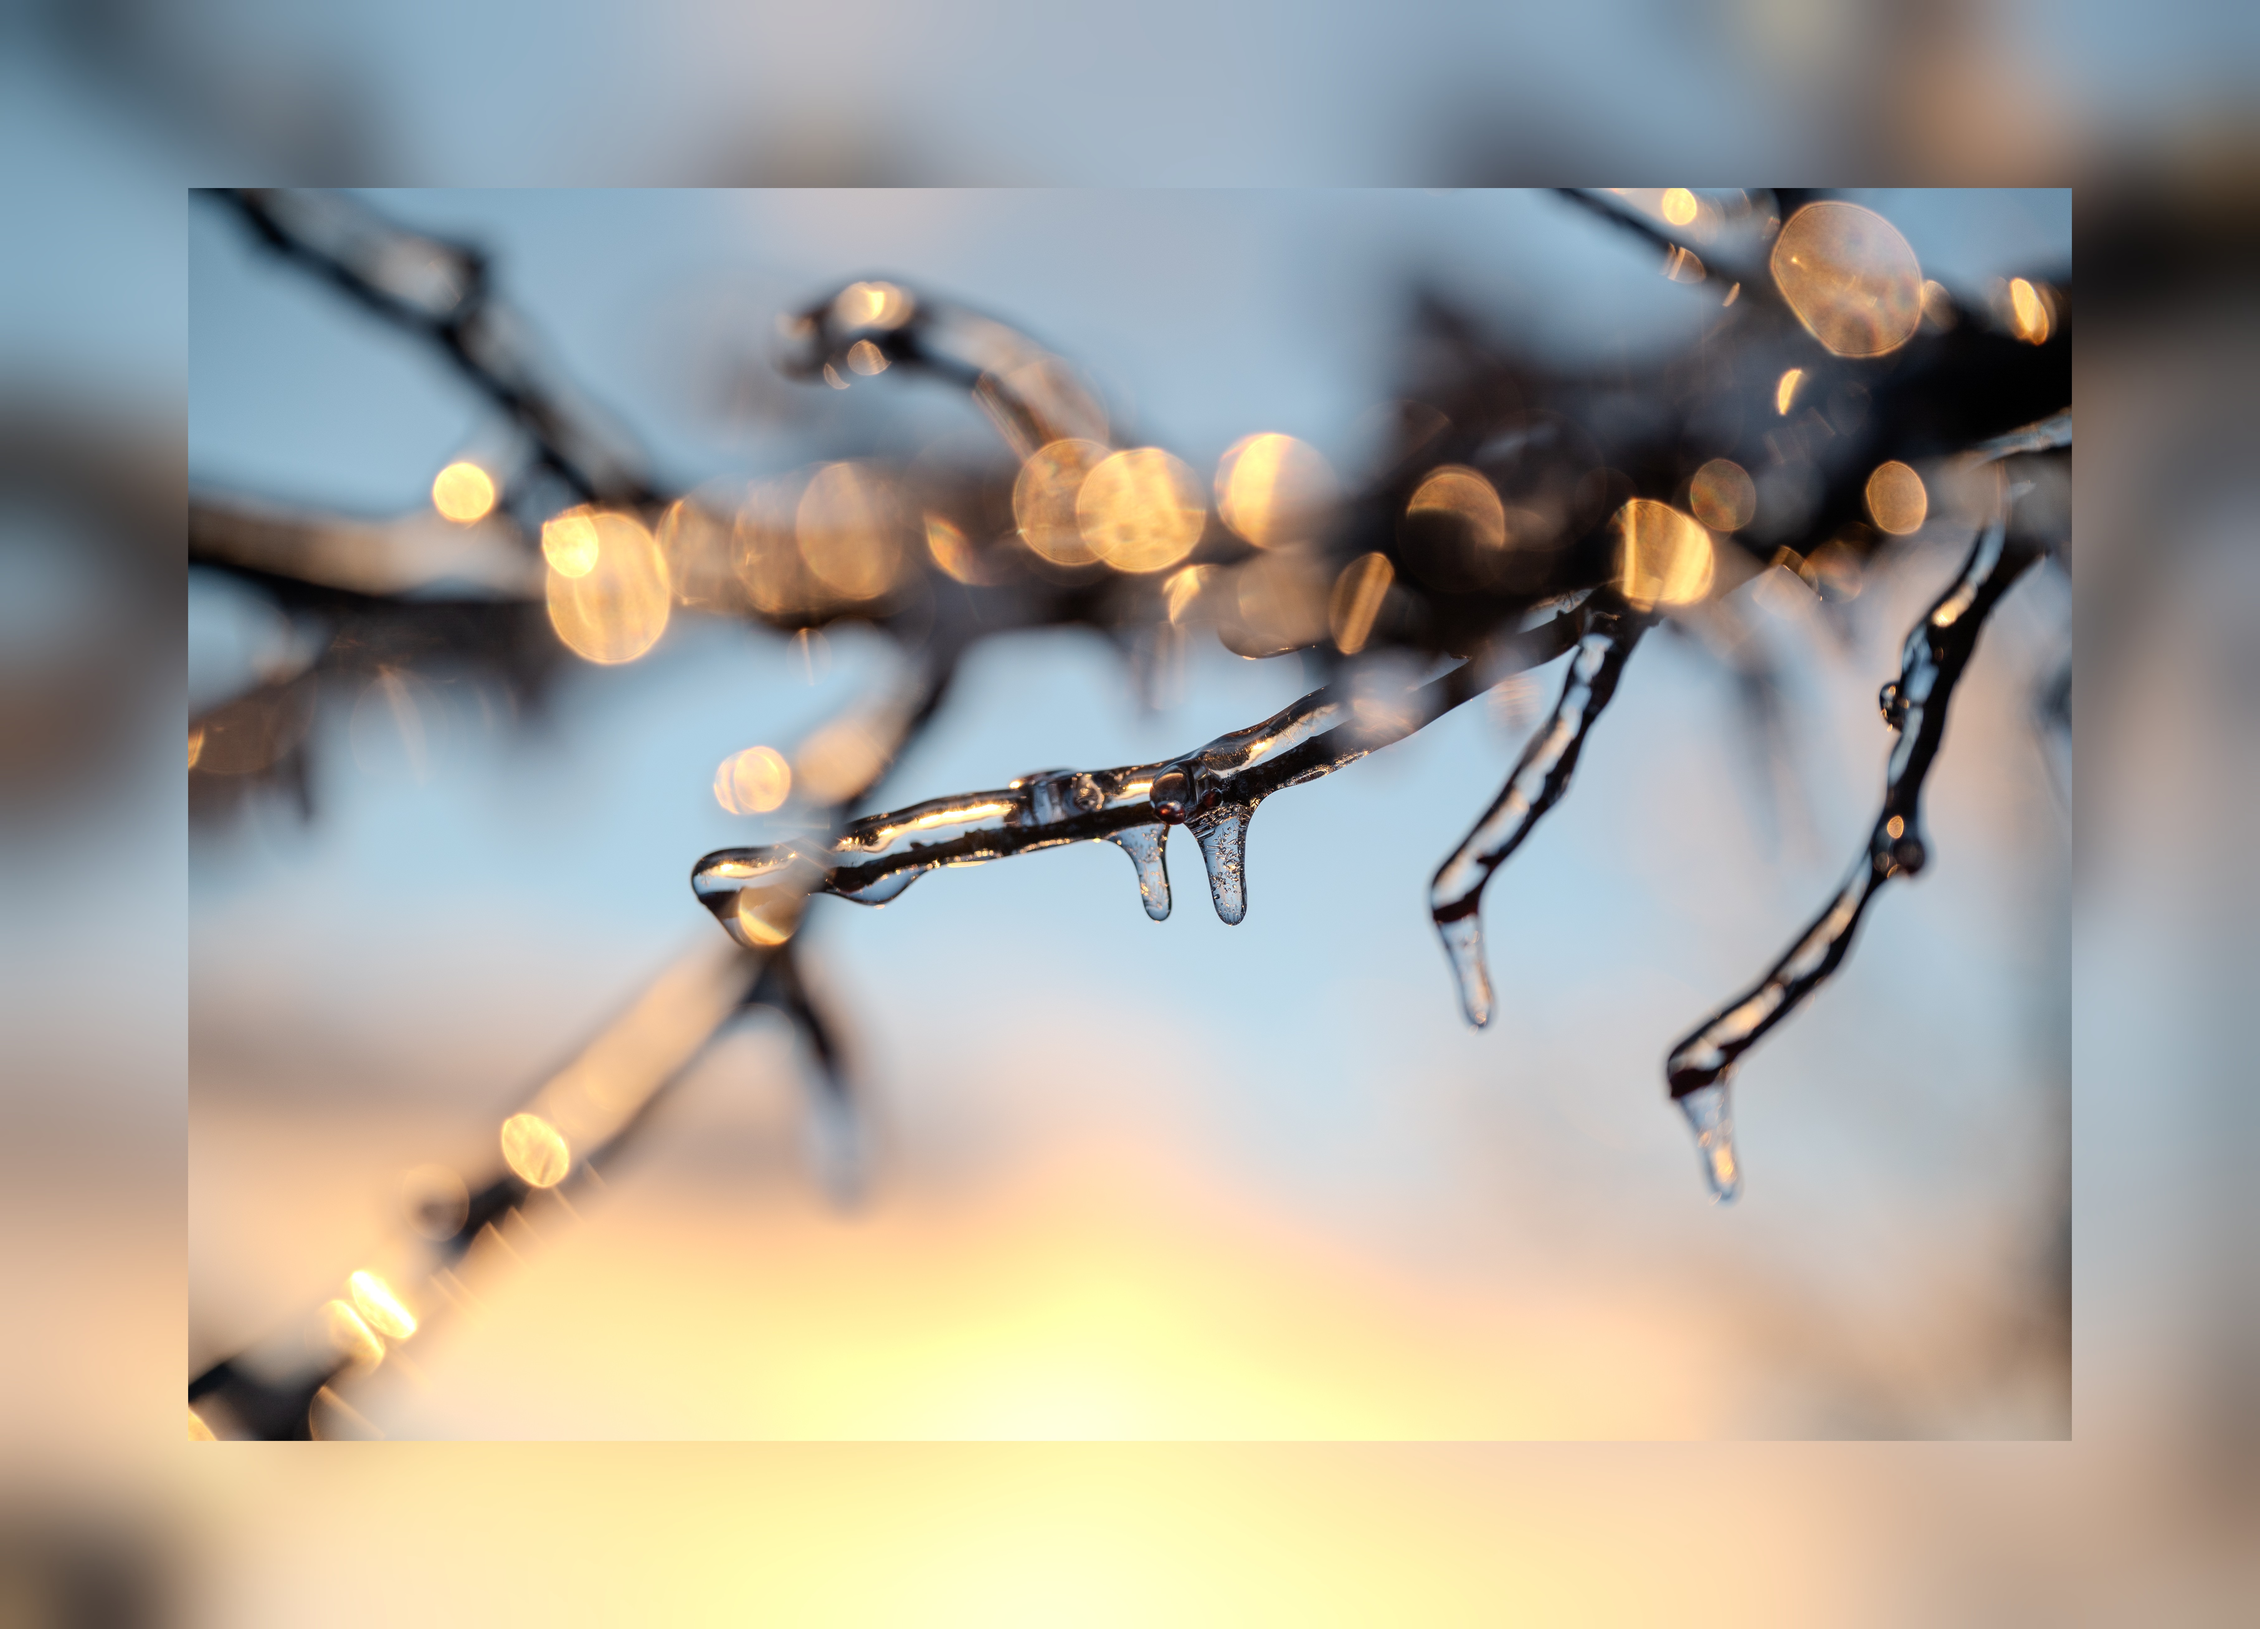
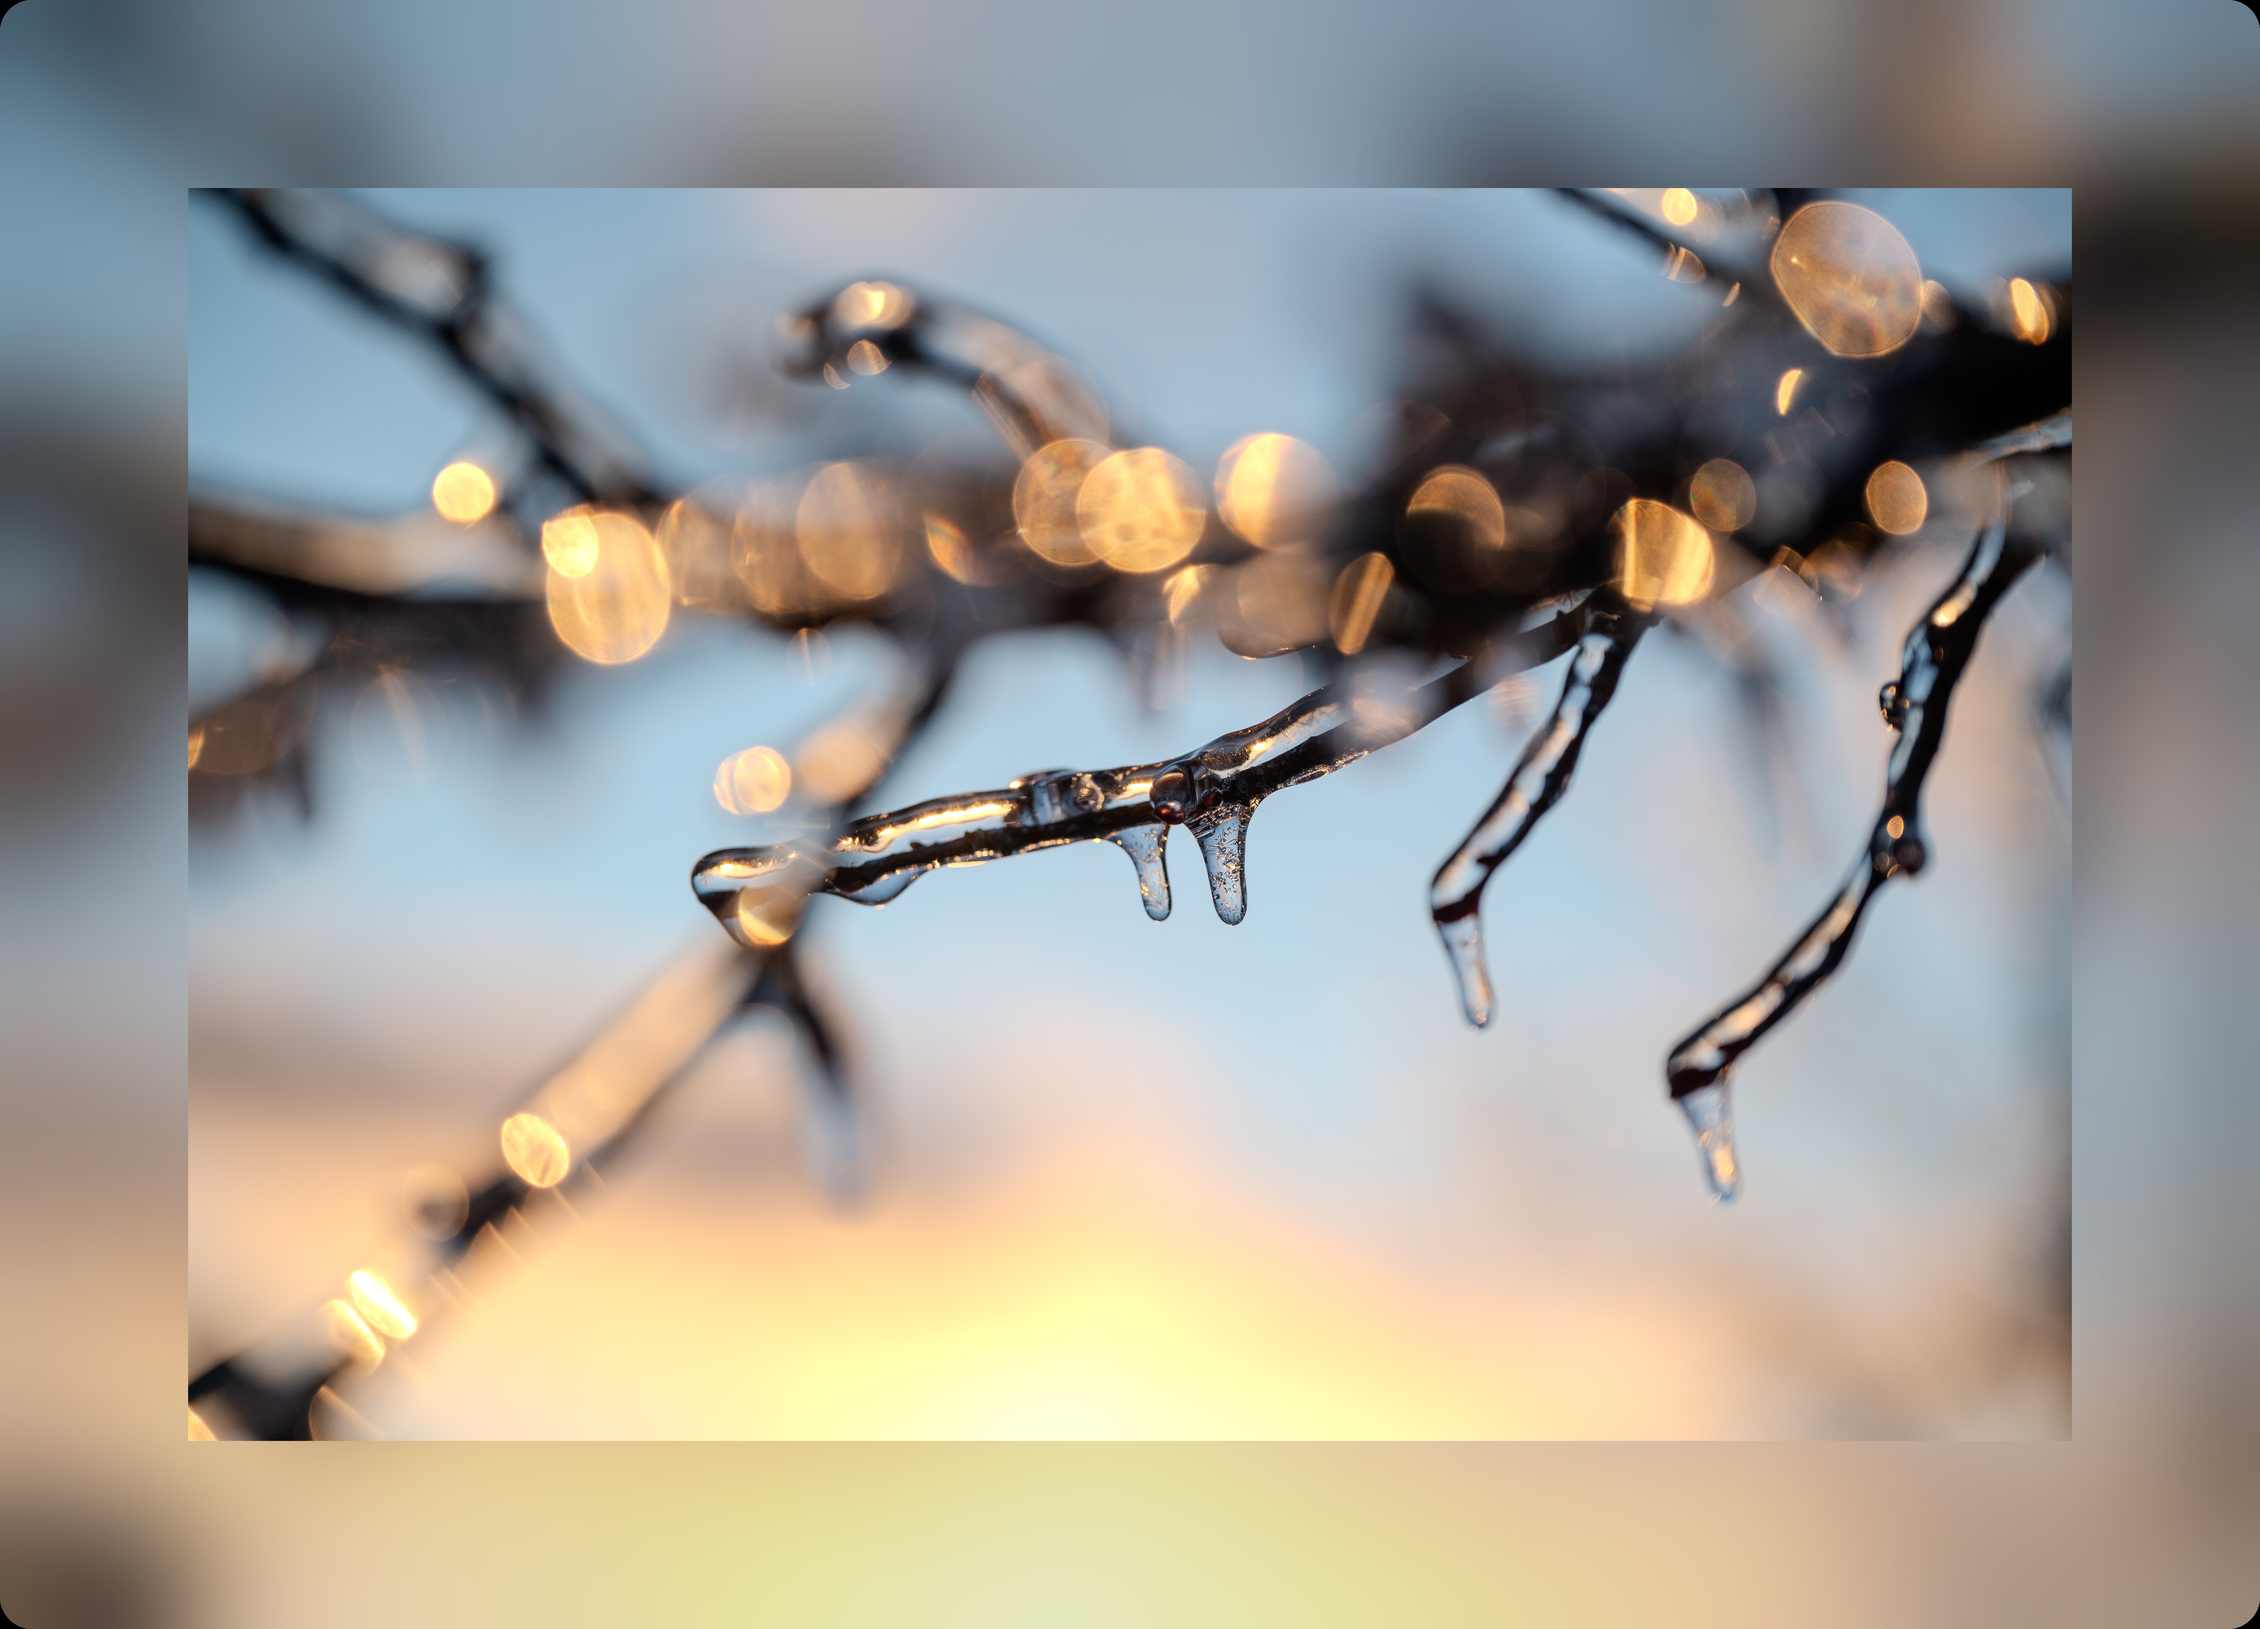
Add round corners

diff --git a/Watermark.cpp b/Watermark.cpp
@@ -10,6 +10,7 @@
     #include <qslider.h>
     #include <qcolor.h>
     #include <qcolordialog.h>
+    #include <qpainterpath.h>
 
 #include <opencv2/opencv.hpp>
 
@@ -26,6 +27,7 @@
 
         connect(ui->template1Button, &QPushButton::clicked, this, &Watermark::onTemplate1ButtonClicked);
         connect(ui->template2Button, &QPushButton::clicked, this, &Watermark::onTemplate2ButtonClicked);
+        connect(ui->template3Button, &QPushButton::clicked, this, &Watermark::onTemplate3ButtonClicked);
     }
 
     Watermark::~Watermark() {
@@ -35,10 +37,7 @@
     void Watermark::resizeEvent(QResizeEvent* event) {
         QMainWindow::resizeEvent(event);
 
-        if (!textImage.isNull()) {
-            QPixmap pix(QPixmap::fromImage(image));
-            ui->imageLabel->setPixmap(pix.scaled(ui->imageLabel->size(), Qt::KeepAspectRatio, Qt::SmoothTransformation));
-        }   
+        apply();
     }
 
     void Watermark::onChooseButtonClicked() {
@@ -48,9 +47,8 @@
         }
         editedImage = image.copy();
         textImage = image.copy();
-        QPixmap pix(QPixmap::fromImage(image));
-        ui->imageLabel->setPixmap(pix.scaled(ui->imageLabel->size(), Qt::KeepAspectRatio, Qt::SmoothTransformation));
 
+        apply();
     }
 
     void Watermark::onApplyButtonClicked() {
@@ -68,33 +66,46 @@
     }
 
     void Watermark::onTemplate1ButtonClicked() {
+        if (image.isNull()) {
+            return;
+        }
+
         QImage background = image.copy();
         background.fill(Qt::white);
-
-        editedImage.fill(Qt::white);
-        addMargin(background, 0.03, 0.03, 0.5, 0.5);
+        editedImage = addMargin(image, background, 0.03, 0.03, 0.5, 0.5).copy();
 
         apply();
     }
 
     void Watermark::onTemplate2ButtonClicked() {
-        QImage background = image.copy();
-        
-        cv::Mat mat(background.height(), background.width(), CV_8UC4, (void*)background.bits(), background.bytesPerLine());
-        cv::Mat small;
-        cv::resize(mat, small, cv::Size(), 0.10, 0.10);
-        small.convertTo(small, -1, 0.9, 0);
-        cv::GaussianBlur(small, small, cv::Size(0, 0), 15);
-        cv::resize(small, mat, mat.size());
-        background = QImage((const uchar*)mat.data, mat.cols, mat.rows, mat.step, QImage::Format_ARGB32).copy();
+        if (image.isNull()) {
+            return;
+        }
 
-        addMargin(background, 0.1, 0.1, 0.5, 0.5);
+        QImage background = blurBackground(image).copy();
+
+        editedImage = addMargin(image, background, 0.1, 0.1, 0.5, 0.5).copy();
+        editedImage = roundCorners(editedImage, 0.02).copy();
 
         apply();
     }
 
+    void Watermark::onTemplate3ButtonClicked() {
+        if (image.isNull()) {
+            return;
+        }
+
+        QImage background = blurBackground(image).copy();
+
+        editedImage = addMargin(image, background, 0.07, 0.15, 0.5, 0.4).copy();
+
+        editedImage = addText(editedImage, ui->ssLineEdit->text(), "Segeo UI", 0.02, false, true, 0.1, 0.8).copy();
+            
+        apply();
+    }
+
     void Watermark::apply() {
-        if (image.isNull() || editedImage.isNull()) {
+        if (image.isNull() || editedImage.isNull() || textImage.isNull()) {
             return;
         }
 
@@ -115,24 +126,83 @@
                          ui->lineEdit->text());
 
         QPixmap pix(QPixmap::fromImage(textImage));
+        
         ui->imageLabel->setPixmap(pix.scaled(ui->imageLabel->size(), Qt::KeepAspectRatio, Qt::SmoothTransformation));
 
         return;
     }
 
-    void Watermark::addMargin(QImage background, double xMarginRatio, double yMarginRatio, double centerXRatio, double centerYRatio) {
-        if (image.isNull()) {
-            return;
-        }
+    QImage Watermark::addMargin(const QImage image, const QImage background, 
+        const double xMarginRatio, const double yMarginRatio, const double centerXRatio, const double centerYRatio) {
+
+        QImage result;
         int base = std::max(image.width(), image.height());
         int xMargin = base * xMarginRatio;
         int yMargin = base * yMarginRatio;
-        editedImage = background.scaled(image.width() + xMargin * 2, image.height() + yMargin * 2);
+        result = background.scaled(image.width() + xMargin * 2, image.height() + yMargin * 2);
 
-        QPainter painter(&editedImage);
+        QPainter painter(&result);
 
-        int x = centerXRatio * editedImage.width() - image.width() / 2;
-        int y = centerYRatio * editedImage.height() - image.height() / 2;
+        int x = centerXRatio * result.width() - image.width() / 2;
+        int y = centerYRatio * result.height() - image.height() / 2;
 
         painter.drawImage(x, y, image);
+
+        return result;
+    }
+
+    QImage Watermark::blurBackground(QImage image) {
+        QImage background = image.copy();
+
+        cv::Mat mat(background.height(), background.width(), CV_8UC4, (void*)background.bits(), background.bytesPerLine());
+        cv::Mat small;
+        cv::resize(mat, small, cv::Size(), 0.10, 0.10);
+        small.convertTo(small, -1, 0.9, 0);
+        cv::GaussianBlur(small, small, cv::Size(0, 0), 15);
+        cv::resize(small, mat, mat.size());
+        background = QImage((const uchar*)mat.data, mat.cols, mat.rows, mat.step, QImage::Format_ARGB32).copy();
+
+        return background;
+    }
+
+    QImage Watermark::roundCorners(QImage image, double radiusR) {
+        if (image.isNull())
+            return QImage();
+
+        QImage result(image.size(), QImage::Format_ARGB32);
+        result.fill(Qt::transparent);
+
+        QPainter painter(&result);
+        painter.setRenderHint(QPainter::Antialiasing, true);
+
+        QPainterPath path;
+        int radius = qMin(image.width(), image.height()) * radiusR;
+        path.addRoundedRect(QRectF(0, 0, image.width(), image.height()), radius, radius);
+        painter.setClipPath(path);
+        painter.drawImage(0, 0, image);
+
+        return result;
+    }
+
+    QImage Watermark::addText(QImage image, QString text, QString font, double sizeR, bool isBold, bool isWhite, double xR, double yR) {
+        QImage result = image.copy();
+        QPainter painter(&result);
+        painter.setRenderHint(QPainter::Antialiasing);
+        painter.setRenderHint(QPainter::TextAntialiasing);
+
+        int size = image.height() * sizeR;
+
+        if (isBold)
+            painter.setFont(QFont(font, size, QFont::Bold));
+        else
+            painter.setFont(QFont(font, size));
+
+        if (isWhite)
+            painter.setPen(Qt::white);
+        else
+            painter.setPen(Qt::black);
+
+        painter.drawText(result.width() * xR, result.height() * yR, text);
+
+        return result;
     }

diff --git a/Watermark.h b/Watermark.h
@@ -13,12 +13,6 @@ public:
     ~Watermark();
 
 private slots:
-    QImage image;
-    QImage editedImage; 
-    QImage textImage;
-    QImage background;
-    QColor color;
-
     void onChooseButtonClicked();
     void onApplyButtonClicked();
     void onSaveButtonClicked();
@@ -26,12 +20,30 @@ private slots:
 
     void onTemplate1ButtonClicked();
     void onTemplate2ButtonClicked();
+    void onTemplate3ButtonClicked();
 
-    void apply();
-    void addMargin(QImage background, double xMarginRatio, double yMarginRatio, double centerXRatio, double centerYRatio);
 
 private:
     Ui_WatermarkClass* ui;
+
+    QImage image;
+    QImage editedImage;
+    QImage textImage;
+    QImage background;
+    QColor color;
+
+    void apply();
+
+    QImage addMargin(const QImage image, const QImage background,
+                     double xMarginRatio, double yMarginRatio,
+                     double centerXRatio, double centerYRatio);
+
+    QImage blurBackground(const QImage image);
+
+    QImage roundCorners(const QImage image, double radiusR);
+
+    QImage addText(QImage image, QString text, QString font, double sizeR, bool isBold, bool isWhite, double xR, double yR);
+
 
 protected:
     void resizeEvent(QResizeEvent* event) override;

diff --git a/main.cpp b/main.cpp
@@ -6,5 +6,6 @@ int main(int argc, char *argv[])
     QApplication a(argc, argv);
     Watermark w;
     w.show();
+
     return a.exec();
 }
